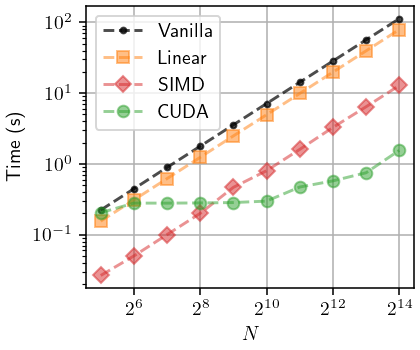
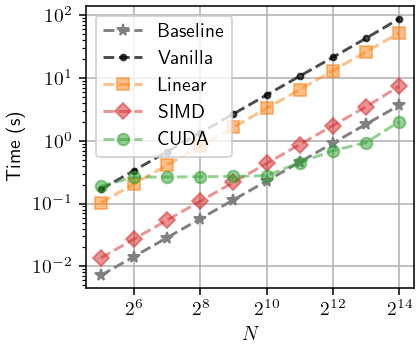
Update benchmark results for desktop

diff --git a/paper/supplementaries.tex b/paper/supplementaries.tex
@@ -114,6 +114,6 @@ Although similar to the Fr\'echet or DTW distance, this algorithm does not searc
         \includegraphics[width=.8\textwidth]{img/desktop/rel_performance-pP.png}
         \caption{Relative improvement with $N = 2^{10}$.}
     \end{subfigure}
-    \caption{Comparison of four different implementations of the Fast Fr\'echet algorithm on a laptop (CPU: AMD Ryzen Threadripper 3960X, GPU: NVIDIA GeForce RTX 3090 (24\,GB VRAM), CUDA Version: 11.4) using 32-bit floating point numbers. \textit{Vanilla} and \textit{Linear} refer to Alg.~\ref{alg:no_recursion} and \ref{alg:linear}, respectively. The SIMD implementation uses a batch size of $B = 8$ and relies on the AVX2 instruction set. The CUDA implementation uses a grid and block size of 128 and 64, respectively, that was measured to perform best for $N=2^{13}$ and $P=2^{10}$. All variants utilize only a single CPU core.}
+    \caption{Comparison of four different implementations of the Fast Fr\'echet Distance algorithm on a laptop (CPU: AMD Ryzen Threadripper 3960X, GPU: NVIDIA GeForce RTX 3090 (24\,GB VRAM), CUDA Version: 12.2) using 32-bit floating point numbers. \textit{Vanilla} and \textit{Linear} refer to Alg.~\ref{alg:no_recursion} and \ref{alg:linear}, respectively. The SIMD implementation uses a batch size of $B = 16$ (twice the size of a 256-bit register in order to improve the instruction level parallelism) and relies on the AVX2 instruction set; the baseline implementation uses the same technique to calculate $\sum_{ij} d_{ij}$. The CUDA implementation uses a grid and block size of 128 and 64, respectively, that was measured to perform best for $N=2^{13}$ and $P=2^{10}$. All variants utilize only a single CPU core.}
     \label{fig:benchmark_desktop}
 \end{figure}
